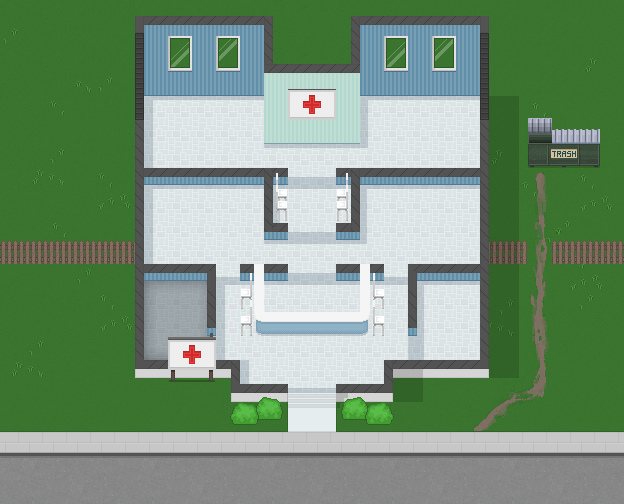
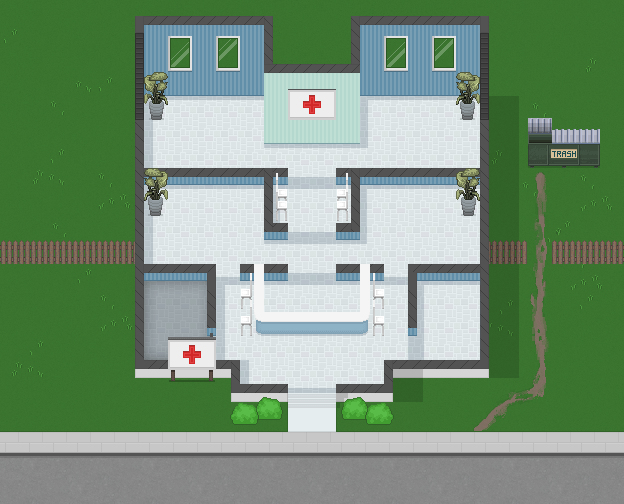
adds room plants to patient rooms (quality of life improvement)

diff --git a/src/game/Level.js b/src/game/Level.js
@@ -10,11 +10,11 @@ function Level() {
         + '-----w--------------w-----\n'
         + '-----w--------------w-----\n'
         + '-----wwwwwww--wwwwwww-----\n'
-        + '-----w-b-b-w--w-b-b-w-----\n'
+        + '-----wwb-b-w--w-b-bww-----\n'
         + '-----w-b-b-wwww-b-b-w-Fww-\n'
         + '-----w--------------w-www-\n'
         + '-----wwwwwww--wwwwwww-p---\n'
-        + '-----w-b-b-w--w-b-b-w-----\n'
+        + '-----wwb-b-w--w-b-bww-----\n'
         + '-----w-b-b-w--w-b-b-w-----\n'
         + 'wwwwww--------------ww-www\n'
         + '-----wwww-ww--ww-wwww-----\n'
